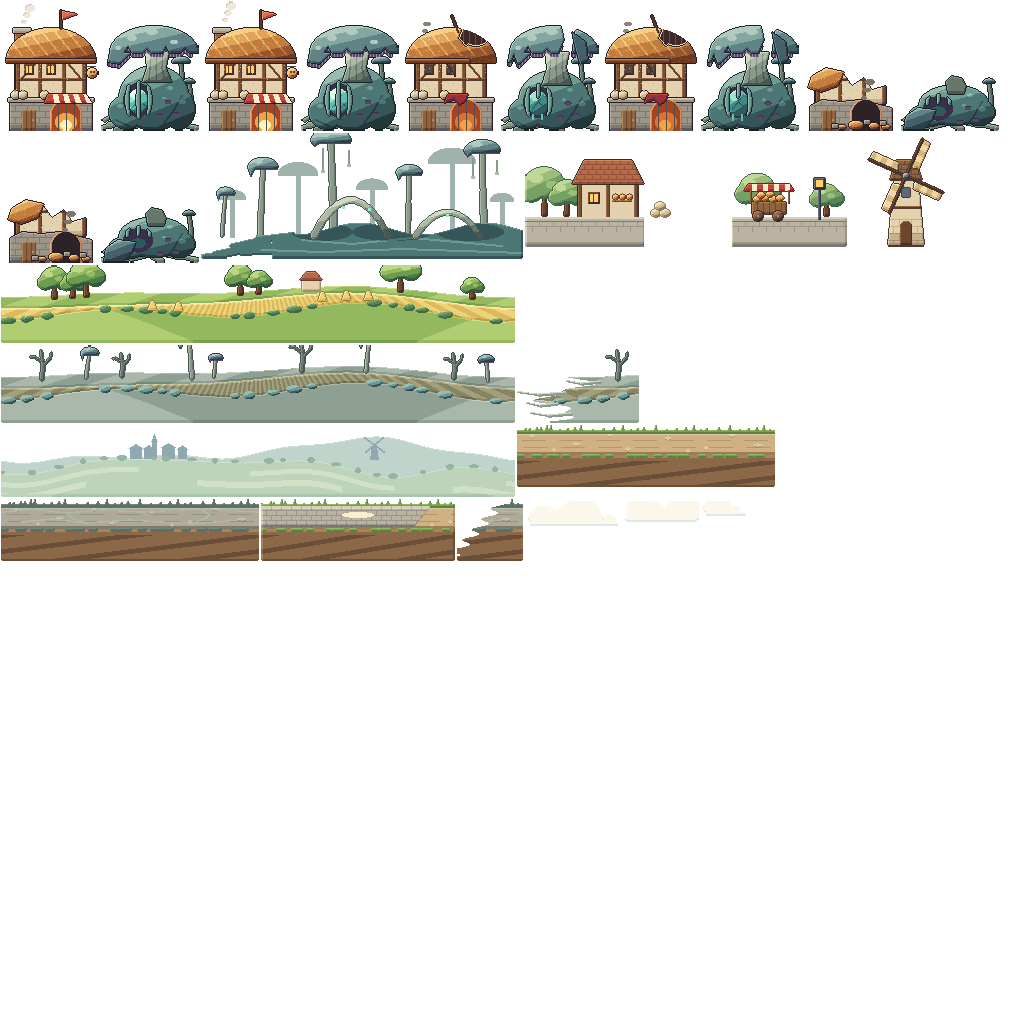
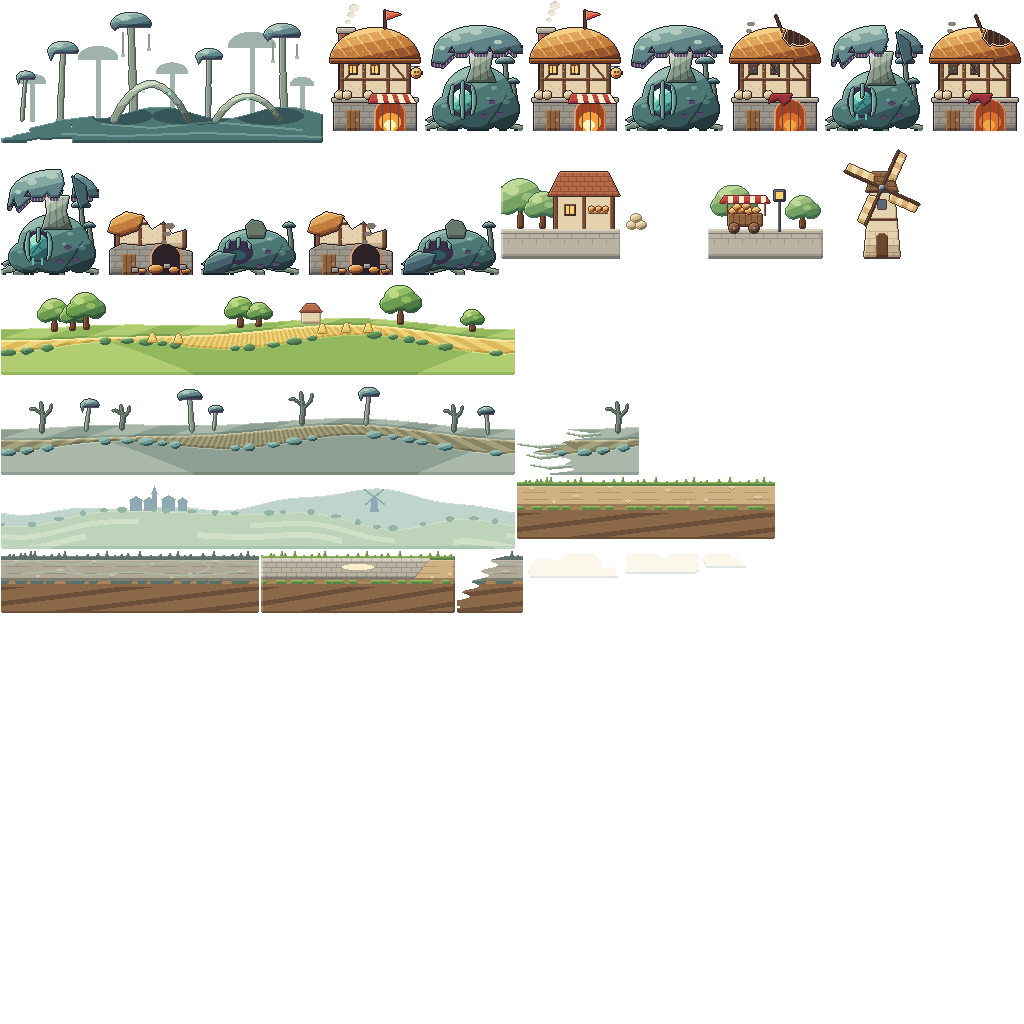
[Fix] R01 전장 나무와 버섯 갓 잘림 수정

diff --git a/tools/art/release_slice/backdrop.py b/tools/art/release_slice/backdrop.py
@@ -2,12 +2,12 @@
 
 Pieces (all 1 art px = 1 world px; scenery contours use the material's own dark step, never the sprite ink):
     far         512x70 tile   two hazy ridges with a far village (steeple, mill) - parallax layer
-    mid_home    512x76 tile   wheat and pasture strips divided by hedges, an uneven windbreak, stooks
-    mid_blight  512x76 tile   the same land taken: grey fields, bare trees, first caps
-    mid_edge    120x76        the ragged front where the blight crosses the fields (drawn over the join)
+    mid_home    512x96 tile   wheat and pasture strips divided by hedges, an uneven windbreak, stooks
+    mid_blight  512x96 tile   the same land taken: grey fields, bare trees, first caps
+    mid_edge    120x96        the ragged front where the blight crosses the fields (drawn over the join)
     lane / lane_blight 128x60 tiles; lane_home 192x60 (cobbled forecourt)
     home_set    320x112       wall, annex, cart and trees around the bakery (world-locked, behind the units)
-    enemy_set   320x124       stalks, great roots and hanging hyphae around the nest
+    enemy_set   320x140       stalks, great roots and hanging hyphae around the nest
     mill        112x112       the flour mill the bakers walk to (bakery_supply draws it)
     cloud_a/b/c
 The lower 44 px of every piece that stands behind the units is a calm, flat mass: detail starts above it.
@@ -141,27 +141,39 @@ def _fields(W, H, blight: bool) -> Img:
     return img, top, b1, b2
 
 
+# Keep the original field at its world height, with extra room above it for complete silhouettes.
+MID_HEADROOM = 20
+MID_HEIGHT = 76 + MID_HEADROOM
+
+
+def _tall_fields(blight: bool):
+    field, top, b1, b2 = _fields(512, 76, blight)
+    img = Img(512, MID_HEIGHT)
+    img.a[MID_HEADROOM:] = field.a
+    return img, top + MID_HEADROOM, b1 + MID_HEADROOM, b2 + MID_HEADROOM
+
+
 def mid_home() -> Img:
-    img, top, b1, b2 = _fields(512, 76, False)
+    img, top, b1, b2 = _tall_fields(False)
     # an uneven windbreak: a cluster of three, a pair, a single tall one
     for x, h, lean in ((52, 30, 0), (70, 24, 1), (84, 34, -1), (238, 28, 0), (256, 22, 1), (398, 36, 0), (470, 20, 0)):
         tree(img, x, int(top[x]) + 4, h, "leaf", "wood", lean)
     # wheat stooks standing in the strip
     for x in (150, 176, 320, 344, 366):
         y = int((b1[x] + b2[x]) * 0.5) + 3
-        st = m_poly(512, 76, [(x - 4, y), (x - 1, y - 9), (x + 2, y - 9), (x + 5, y)])
+        st = m_poly(512, MID_HEIGHT, [(x - 4, y), (x - 1, y - 9), (x + 2, y - 9), (x + 5, y)])
         mass(img, st, "wheat", "flat", RAMP["wheat"][0], base=3)
     # a field barn with a red roof far in the strip
     bx, by = 300, int(top[300]) + 3
-    barn = m_rect(512, 76, bx, by - 10, 18, 11)
+    barn = m_rect(512, MID_HEIGHT, bx, by - 10, 18, 11)
     mass(img, barn, "plaster", "wall", RAMP["plaster"][0], base=2)
-    roof = m_poly(512, 76, [(bx - 2, by - 10), (bx + 4, by - 18), (bx + 14, by - 18), (bx + 20, by - 10)])
+    roof = m_poly(512, MID_HEIGHT, [(bx - 2, by - 10), (bx + 4, by - 18), (bx + 14, by - 18), (bx + 20, by - 10)])
     mass(img, roof, "brick", "flat", RAMP["brick"][0], base=2)
     return img
 
 
 def mid_blight() -> Img:
-    img, top, b1, b2 = _fields(512, 76, True)
+    img, top, b1, b2 = _tall_fields(True)
     for x, h in ((40, 28), (120, 22), (300, 30), (452, 24)):
         bare_tree(img, x, int(top[x]) + 4, h)
     for x, h, r, d in ((84, 26, 9, 0.6), (190, 34, 12, -0.4), (212, 20, 7, 0.3), (364, 30, 10, 0.5), (486, 22, 8, -0.3)):
@@ -172,7 +184,7 @@ def mid_blight() -> Img:
 def mid_edge() -> Img:
     """The front of the blight. The piece is the blighted field itself (the 60 columns either side of the tile
     join), cut along a ragged line, so it continues the tile to its right exactly; pale fingers reach further left."""
-    W, H = 120, 76
+    W, H = 120, MID_HEIGHT
     tile = mid_blight()
     tile.a[:, 0] = tile.a[:, 1]             # same border fix as the tile in the atlas (_tile)
     tile.a[:, -1] = tile.a[:, -2]
@@ -180,9 +192,11 @@ def mid_edge() -> Img:
     img.a[:, 60:] = tile.a[:, :60]
     img.a[:, :60] = tile.a[:, 452:512]
     xx, yy = grid(W, H)
-    edge = 56 + 20 * np.sin(yy * 0.21) + 9 * np.sin(yy * 0.53 + 1.0) - (yy - 26) * 0.5
+    field_y = yy - MID_HEADROOM
+    edge = 56 + 20 * np.sin(field_y * 0.21) + 9 * np.sin(field_y * 0.53 + 1.0) - (field_y - 26) * 0.5
     img.a[xx < edge] = (0, 0, 0, 0)
     for y0, ln in ((36, 30), (47, 44), (58, 26), (68, 36)):
+        y0 += MID_HEADROOM
         finger = m_curve(W, H, [(edge[y0, 0] + 4, y0), (edge[y0, 0] - ln * 0.5, y0 + 2), (edge[y0, 0] - ln, y0 - 1)], 3.4, 1.2)
         paint(img, finger, "hypha", "flat", base=3)
     return img
@@ -313,10 +327,10 @@ def home_set() -> Img:
     for px in (224, 262):
         paint(img, m_rect(W, H, px, B - 56, 2, 14), "timber", "flat")
     # lamp post at the far right: the last warm light before the open field
-    paint(img, m_rect(W, H, 292, B - 58, 3, 32), "iron", "flat", base=1)
-    lamp = m_rect(W, H, 288, B - 68, 11, 11)
+    paint(img, m_rect(W, H, 276, B - 58, 3, 32), "iron", "flat", base=1)
+    lamp = m_rect(W, H, 272, B - 68, 11, 11)
     mass(img, lamp, "iron", "flat", RAMP["iron"][0], base=1)
-    put(img, m_rect(W, H, 290, B - 66, 7, 7), RAMP["fire"][3])
+    put(img, m_rect(W, H, 274, B - 66, 7, 7), RAMP["fire"][3])
     # flour sacks stacked on the wall cap
     for sx in (130, 139, 134):
         sy = B - 33 if sx != 134 else B - 40
@@ -326,7 +340,7 @@ def home_set() -> Img:
 
 def enemy_set() -> Img:
     """Around the nest: the wood the mould grew, and the roots it sends down the road."""
-    W, H = 320, 124
+    W, H = 320, 140
     img = Img(W, H)
     B = H
     # hazy back row of caps (one value)

diff --git a/tools/art/release_slice/build.py b/tools/art/release_slice/build.py
@@ -29,7 +29,7 @@ LAYOUT = {
     "sky": [["6fa9d8", -1000], ["8cc0e2", -190], ["aad3e8", -160], ["c9e2ea", -134], ["e6eedc", -112], ["f3ecd2", -96]],
     "clouds": {"y": -150, "parallax": 0.06, "drift": 1.3},
     "far": {"y": -150, "parallax": 0.15},
-    "mid": {"y": -90, "parallax": 0.4, "blight_from": 0.62},
+    "mid": {"y": -90 - backdrop.MID_HEADROOM, "parallax": 0.4, "blight_from": 0.62},
     "lane": {"y": -16, "blight_from": 0.62, "home_x": -96},
     "home_set": {"x": -168, "bottom": -10},
     "enemy_set": {"x": -236, "bottom": -10},
